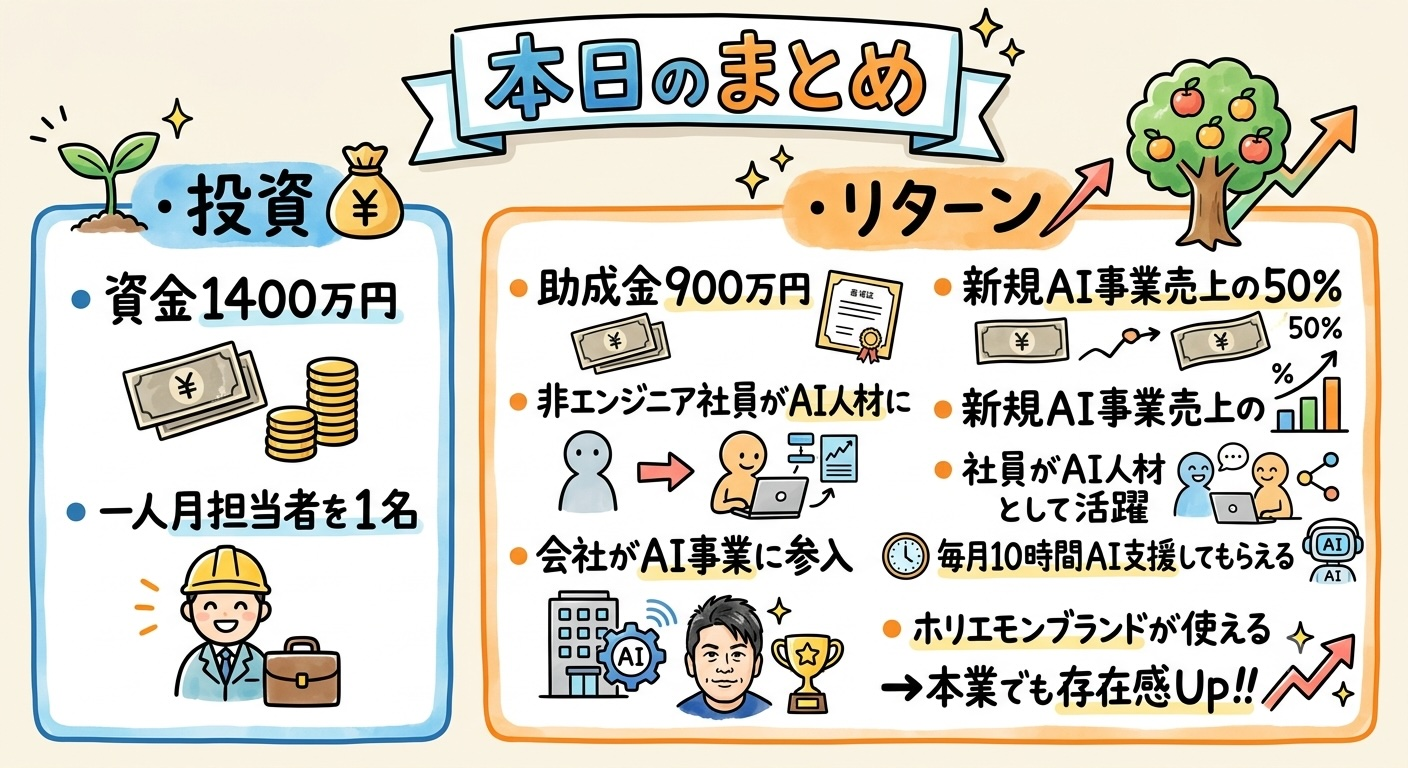
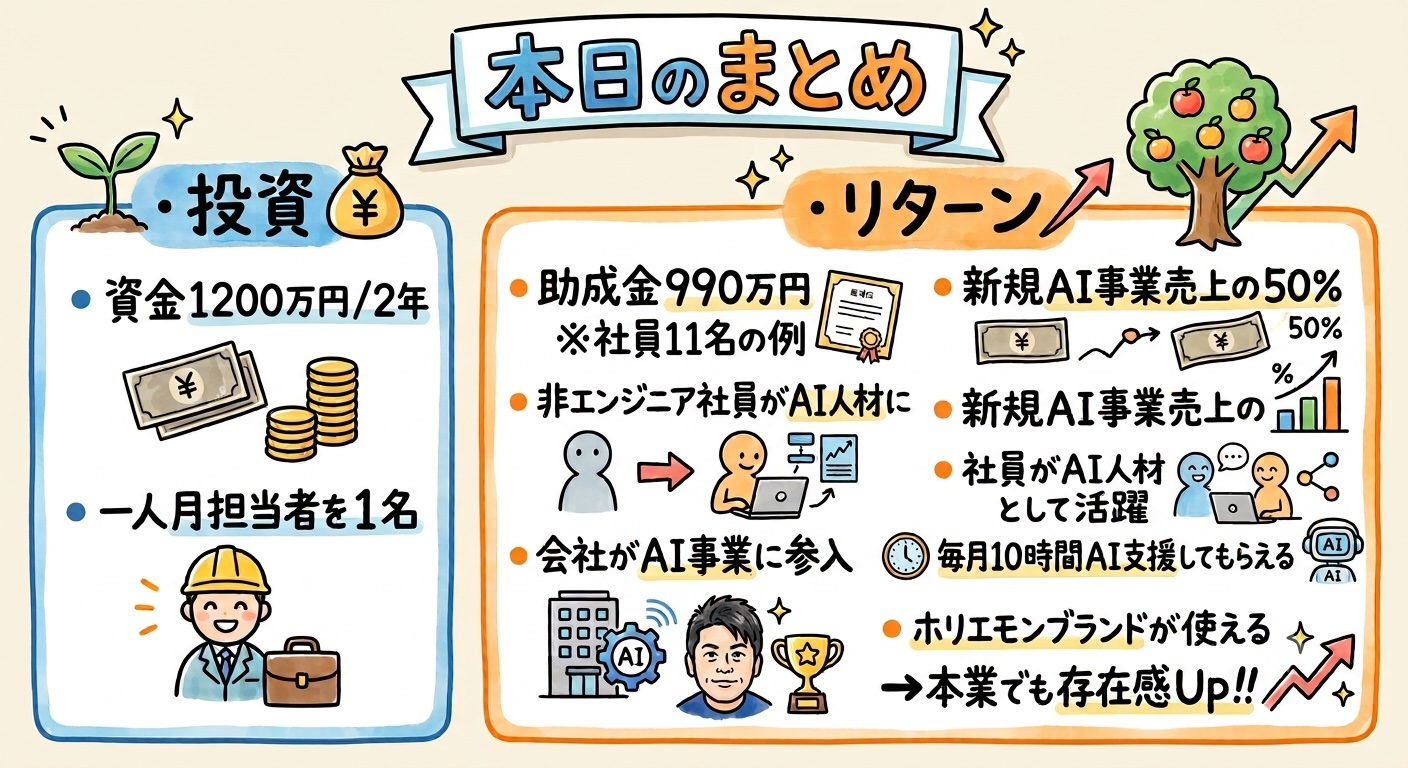
パートナー募集LP: まとめ画像を990万円版に差し替え、対象を社員11名以上に変更

diff --git a/partner/index.html b/partner/index.html
@@ -41,7 +41,7 @@
   <!-- End X Pixel Code -->
 
   <title>AI事業に新規参入｜協業パートナー募集（各業界・各エリア1社限定）| ホリエモンAI学校</title>
-  <meta name="description" content="社員10名以上の企業様へ。助成金を活用してAI事業に新規参入しませんか？研修1,200万円のうち最大990万円が国の助成金対象（中小企業）。まず自社で受講し、納得してから加盟金200万円でパートナー契約。各業界・各エリア1社限定です。">
+  <meta name="description" content="社員11名以上の企業様へ。助成金を活用してAI事業に新規参入しませんか？研修1,200万円のうち最大990万円が国の助成金対象（中小企業）。まず自社で受講し、納得してから加盟金200万円でパートナー契約。各業界・各エリア1社限定です。">
   <meta name="keywords" content="業界特化AI,パートナー募集,AI研修,AIコンサル,AIエージェント,ホリエモンAI学校,法人向けAI,DX,生成AI">
   <meta name="author" content="ホリエモンAI学校株式会社">
   <meta name="robots" content="index,follow,max-image-preview:large,max-snippet:-1">
@@ -116,7 +116,7 @@
           { "@type": "Question", "name": "AIの専門知識がなくても大丈夫ですか？", "acceptedAnswer": { "@type": "Answer", "text": "はい。AIの教育コンテンツ・コンサルティングノウハウ・AIエージェントの技術はホリエモンAI学校が提供します。パートナー企業に求めるのは、業界の知見と顧客基盤、そして業界課題を解決したいという意志です。" } },
           { "@type": "Question", "name": "費用や契約条件はどうなっていますか？", "acceptedAnswer": { "@type": "Answer", "text": "費用は2段階です。まず研修費用1,200万円（中小企業で最大990万円が助成金対象）、その後、加盟する場合に加盟金200万円です。加盟後のランニング費用は0円です。なお、業界パートナー加盟時には、社員全員のホリエモンAI学校受講契約を求めますので、あらかじめご承知ください。" } },
           { "@type": "Question", "name": "助成金は本当に使えますか？", "acceptedAnswer": { "@type": "Answer", "text": "人材開発支援助成金「事業展開等リスキリング支援事業」の対象となる研修プログラムです。中小企業で最大990万円、大企業で最大600万円が助成対象です。ただし受給には労働局の審査があり、当社が受給を保証するものではありません。申請サポートは提携社労士をご紹介します。" } },
-          { "@type": "Question", "name": "なぜ「社員10名以上」が対象なのですか？", "acceptedAnswer": { "@type": "Answer", "text": "助成金の支給額は受講する社員数に応じて決まるため、社員10名以上の企業様が助成メリットを最大化できる設計だからです。また、加盟後に年間5,000万円規模の事業を担っていただくうえでも、組織的な営業体制がある企業様が適しています。" } },
+          { "@type": "Question", "name": "なぜ「社員11名以上」が対象なのですか？", "acceptedAnswer": { "@type": "Answer", "text": "助成金の支給額は受講する社員数に応じて決まるため、社員11名以上の企業様が助成メリットを最大化できる設計だからです。また、加盟後に年間5,000万円規模の事業を担っていただくうえでも、組織的な営業体制がある企業様が適しています。" } },
           { "@type": "Question", "name": "研修だけ受けて、加盟しないこともできますか？", "acceptedAnswer": { "@type": "Answer", "text": "はい、可能です。まず1ヶ月受講いただき、そのうえで加盟するかどうかをお選びいただけます。加盟しない場合も、社員全員がAI活用DX人材になるという研修価値はそのまま御社に残ります。" } },
           { "@type": "Question", "name": "どうやって応募すればいいですか？", "acceptedAnswer": { "@type": "Answer", "text": "ページ内のお問い合わせフォームから、業界名と会社概要をお送りください。担当者よりメールでご連絡します。" } }
         ]
@@ -523,7 +523,7 @@
 <!-- ===== HERO CTA ===== -->
 <section class="hero-lead">
   <div class="container">
-    <p class="hero-target fade-up">社員10名以上の企業様へ</p>
+    <p class="hero-target fade-up">社員11名以上の企業様へ</p>
     <h2 class="hero-copy fade-up">ホリエモンAI学校と協業で<br><span style="color:var(--red);">AI事業に新規参入</span>しませんか？</h2>
     <div class="hero-steps fade-up">
       <span class="hero-step">社員全員をAI人材に</span>
@@ -572,7 +572,7 @@
       <p class="section-sub">本業を持つ法人企業の「AI事業への新規参入」を支援する制度です。</p>
     </div>
     <ul class="target-list fade-up">
-      <li>社員10名〜300名程度の法人企業</li>
+      <li>社員11名〜300名程度の法人企業</li>
       <li>特定の業界、または地域に顧客基盤・販路がある<span class="note">（目安：年間5,000万円の売上を作れる販路）</span></li>
       <li>本業に次ぐ「第2の収益柱」としてAI事業への参入を検討している</li>
       <li>社員のAIスキル・DX人材育成にも課題を感じている</li>
@@ -869,7 +869,7 @@
         <div class="tl-item">
           <div class="tl-date">1/1</div>
           <h3>初回30分面談</h3>
-          <p>まずはWeb会議で30分話しましょう。FC協業の概要、御社の事業概要、どんな業界（エリア）の課題解決をしようとしているのか、販路がどこなのか、大枠をディスカッションさせてください。対象規模（社員10名〜300名程度）の詳細も、この場でご確認いただけます。</p>
+          <p>まずはWeb会議で30分話しましょう。FC協業の概要、御社の事業概要、どんな業界（エリア）の課題解決をしようとしているのか、販路がどこなのか、大枠をディスカッションさせてください。対象規模（社員11名〜300名程度）の詳細も、この場でご確認いただけます。</p>
         </div>
         <div class="tl-item">
           <div class="tl-date">1/15</div>
@@ -1046,8 +1046,8 @@
         <div class="faq-answer">人材開発支援助成金「事業展開等リスキリング支援事業」の対象となる研修プログラムです。中小企業で最大990万円、大企業で最大600万円が助成対象です。ただし受給には労働局の審査があり、当社が受給を保証するものではありません。申請サポートは提携社労士をご紹介します。</div>
       </div>
       <div class="faq-item fade-up">
-        <div class="faq-question">なぜ「社員10名以上」が対象なのですか？</div>
-        <div class="faq-answer">助成金の支給額は受講する社員数に応じて決まるため、社員10名以上の企業様が助成メリットを最大化できる設計だからです。また、加盟後に年間5,000万円規模の事業を担っていただくうえでも、組織的な営業体制がある企業様が適しています。</div>
+        <div class="faq-question">なぜ「社員11名以上」が対象なのですか？</div>
+        <div class="faq-answer">助成金の支給額は受講する社員数に応じて決まるため、社員11名以上の企業様が助成メリットを最大化できる設計だからです。また、加盟後に年間5,000万円規模の事業を担っていただくうえでも、組織的な営業体制がある企業様が適しています。</div>
       </div>
       <div class="faq-item fade-up">
         <div class="faq-question">研修だけ受けて、加盟しないこともできますか？</div>
@@ -1084,7 +1084,7 @@
     </div>
     <figure class="summary-fig fade-up">
       <img src="/partner/footer.jpg" width="1408" height="768" loading="lazy" decoding="async"
-        alt="本日のまとめ：投資は資金1,400万円と一人月担当者1名。リターンは助成金990万円、非エンジニア社員がAI人材に、会社がAI事業に参入、新規AI事業売上の50%、社員がAI人材として活躍、毎月10時間のAI支援、ホリエモンブランドが使えて本業でも存在感アップ">
+        alt="本日のまとめ：投資は資金1,200万円／2年と一人月担当者1名。リターンは助成金990万円（社員11名の例）、非エンジニア社員がAI人材に、会社がAI事業に参入、新規AI事業売上の50%、社員がAI人材として活躍、毎月10時間のAI支援、ホリエモンブランドが使えて本業でも存在感アップ">
     </figure>
     <form class="dl-card fade-up" id="dlForm" novalidate>
       <input type="hidden" name="form" value="partner-doc">
